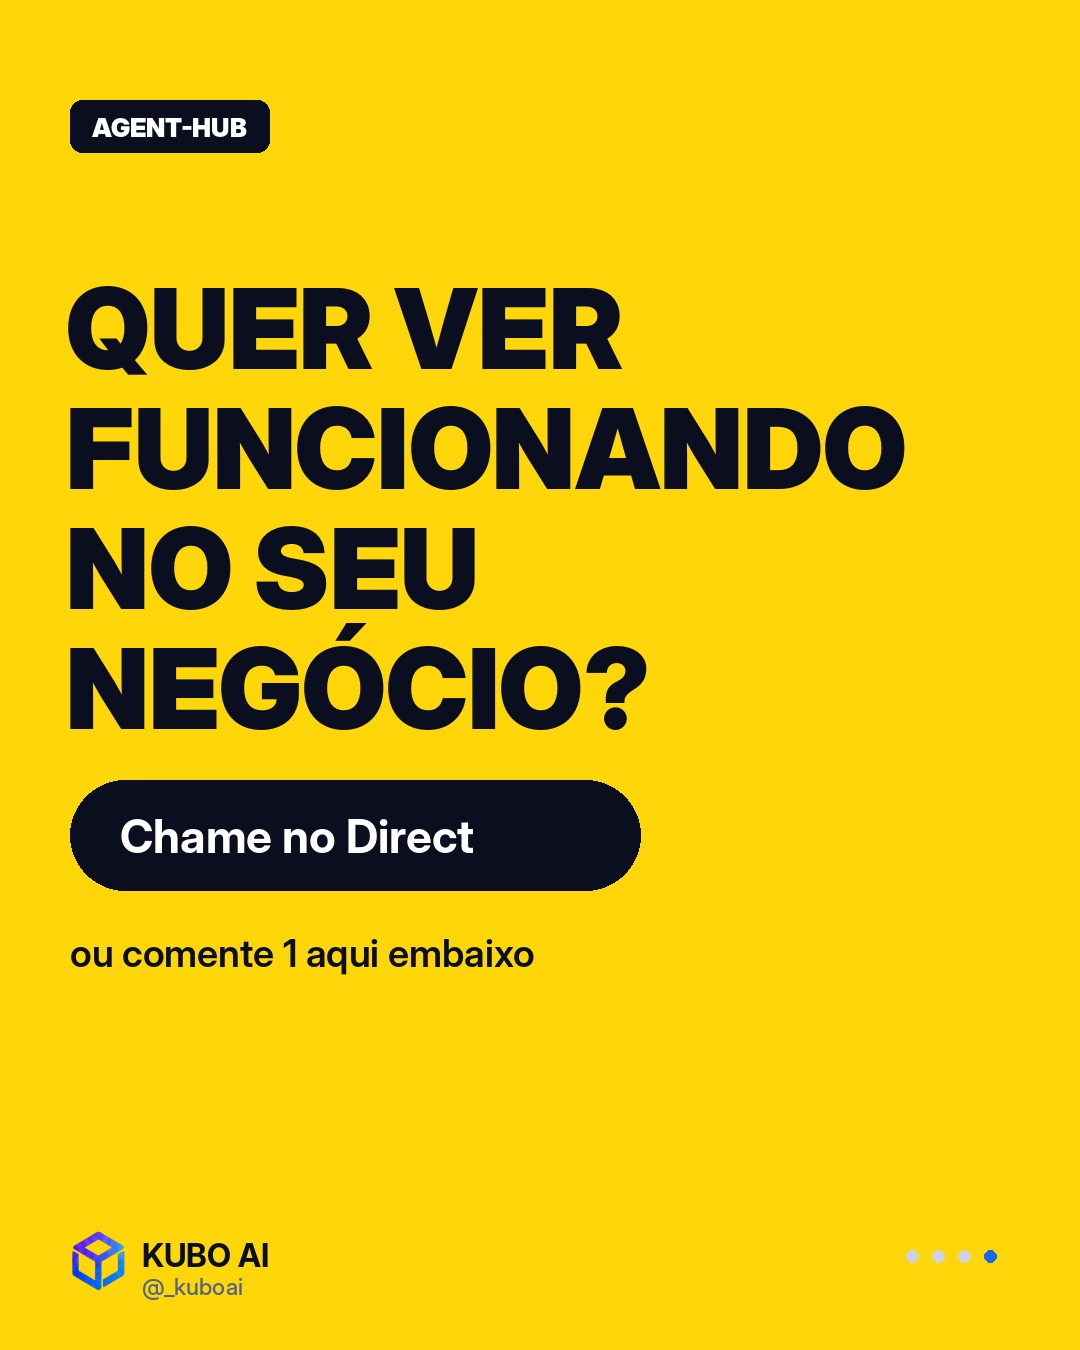
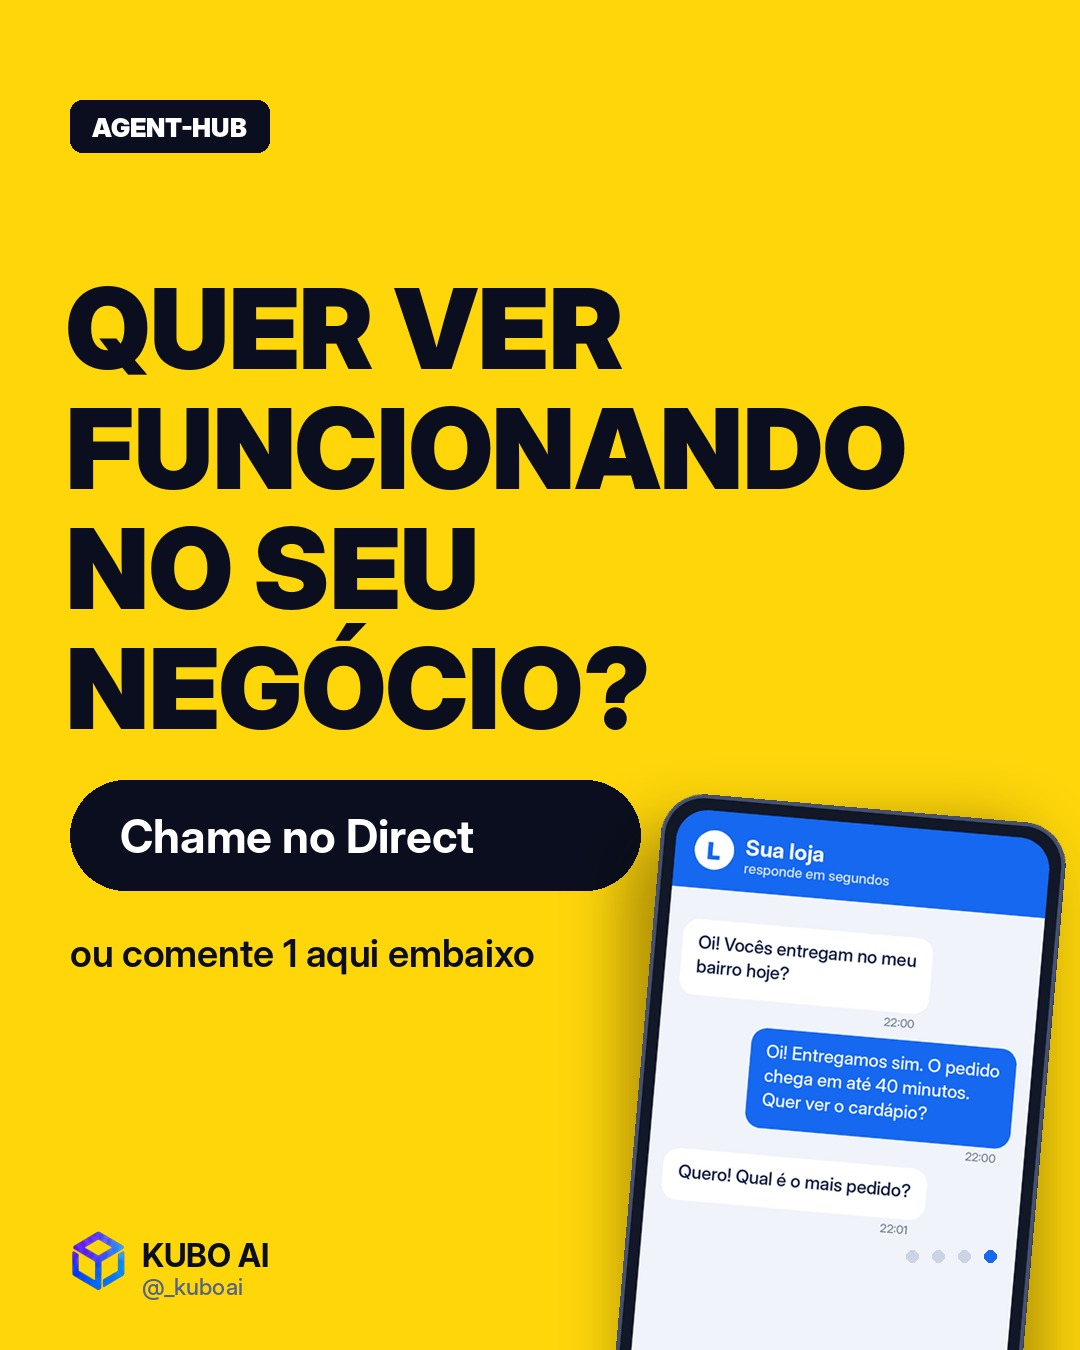
Agent-Hub: celular da capa na tela amarela
Claude-Session: https://claude.ai/code/session_01Hx1zFfYuJDG1srcCQX9eBa

Changed region(s): [[0.55, 0.56, 1.0, 1.0]]

diff --git a/kubo-news/modelo/produto/agenthub_carrossel.py b/kubo-news/modelo/produto/agenthub_carrossel.py
@@ -60,4 +60,8 @@ y=260
 for l in ['QUER VER','FUNCIONANDO','NO SEU','NEGÓCIO?']: d.text((66,y),l,font=f('Black',112),fill=INK);y+=120
 y+=40;d.rounded_rectangle((70,y,640,y+110),55,fill=INK);d.text((120,y+28),'Chame no Direct',font=f('Bold',46),fill='white')
 y+=150;d.text((70,y),'ou comente 1 aqui embaixo',font=f('SemiBold',38),fill=INK)
+# celular da capa, no canto inferior direito
+pb=ph.resize((int(ph.width*0.78),int(ph.height*0.78)))
+sh=Image.new('RGBA',(W,H));ImageDraw.Draw(sh).rounded_rectangle((630,830,630+pb.width,830+pb.height),50,fill=(60,40,0,110));c.alpha_composite(sh.filter(ImageFilter.GaussianBlur(30)))
+c.alpha_composite(pb.rotate(-5,expand=True,resample=Image.BICUBIC),(600,790))
 foot(c,3,n);c.convert('RGB').save(o+'ah2_4.jpg',quality=92)
